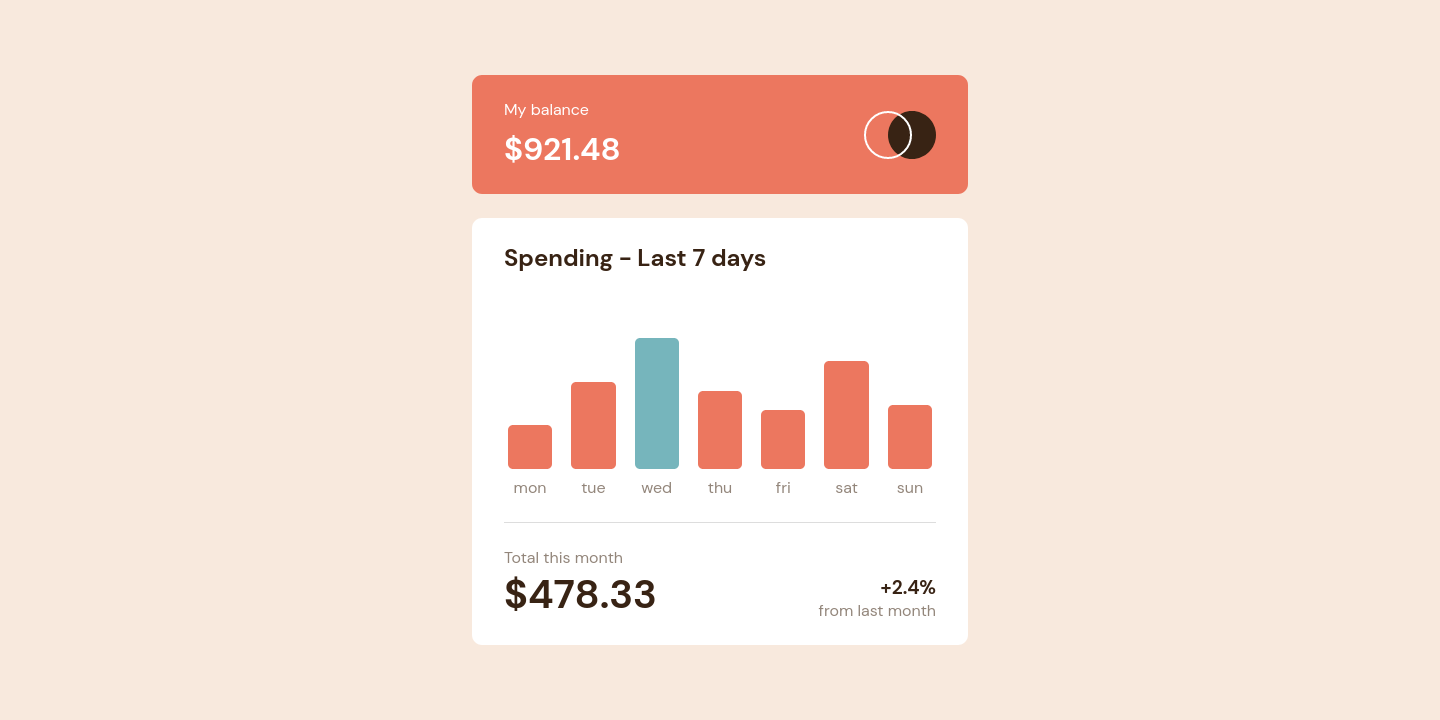
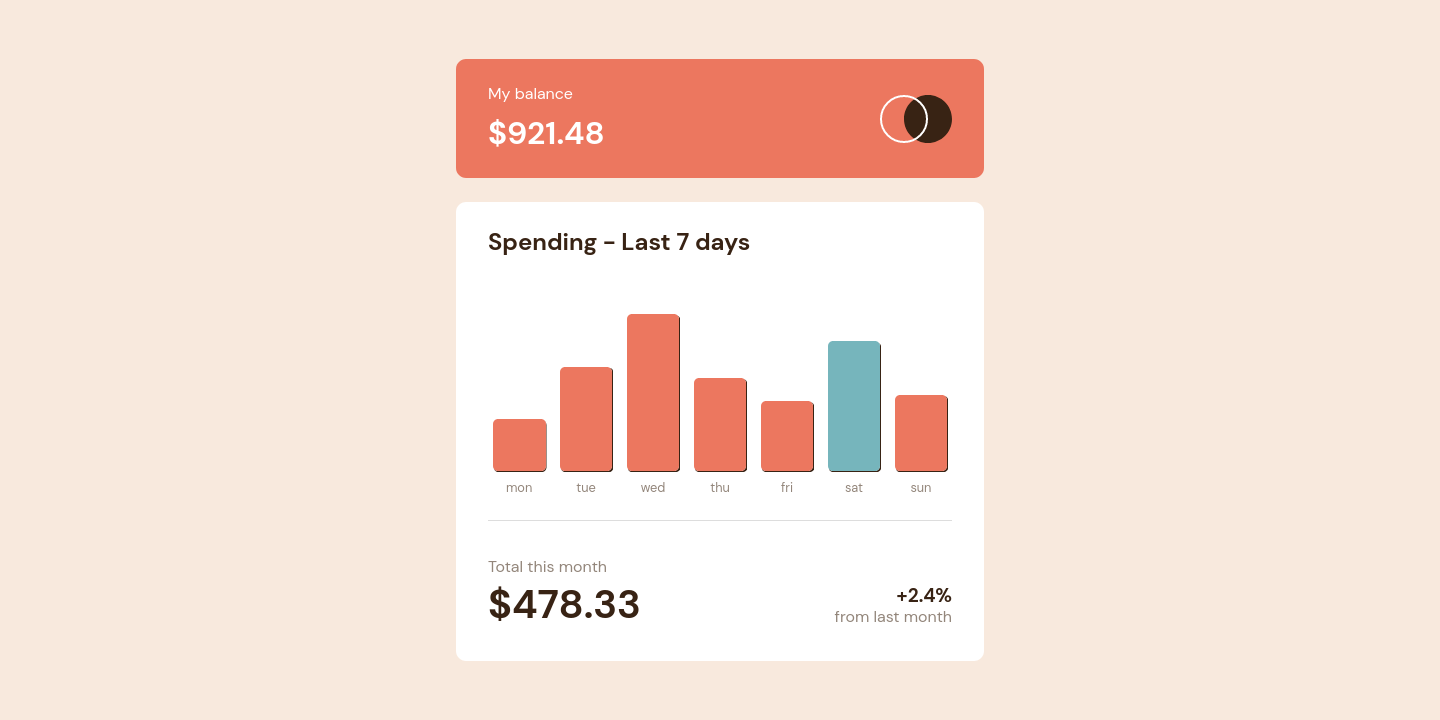
fix responsive view

Changed region(s): [[0.3125, 0.0611, 0.6875, 0.9167]]

diff --git a/public/solutions/expenses-chart-component/static/css/main.4b602d8c.css b/public/solutions/expenses-chart-component/static/css/main.4b602d8c.css
@@ -1,0 +1,2 @@
+.SpendDay_container__cTSNa{align-items:center;align-self:flex-end;cursor:pointer;display:flex;flex-basis:0;flex-direction:column;flex-grow:1;gap:.5rem;justify-content:flex-end;margin-top:2rem}.SpendDay_container__cTSNa:hover>.SpendDay_amount__pr\+6W{opacity:1}.SpendDay_container__cTSNa:hover>.SpendDay_bar__2ALwY{opacity:.8}.SpendDay_container__cTSNa .SpendDay_amount__pr\+6W{display:flex;height:auto;justify-content:center;opacity:0;position:relative;transition:.3s ease;width:100%}.SpendDay_container__cTSNa .SpendDay_amount__pr\+6W .SpendDay_value__k9hMh{background-color:#382314;border-radius:5px;bottom:0;box-sizing:initial;color:#fff;font-size:1rem;font-weight:700;padding:.5rem;position:absolute;text-align:center}.SpendDay_container__cTSNa .SpendDay_bar__2ALwY{background-color:#ec775f;border-radius:5px;box-shadow:1px 1px #382314;transition:.3s ease;width:85%}.SpendDay_container__cTSNa p{box-sizing:initial;color:#93867b;font-size:.8rem}@media screen and (max-width:375px){.SpendDay_container__cTSNa .SpendDay_amount__pr\+6W .SpendDay_value__k9hMh{font-size:.6rem}.SpendDay_container__cTSNa p{font-size:.7rem}}.Spending_container__B78Xt{border-bottom:1px solid #ddd;margin-bottom:1.5rem;padding-bottom:1.5rem}.Spending_container__B78Xt h2{margin-bottom:1rem}.Spending_container__B78Xt .Spending_data__YS8Cd{display:flex;gap:.3rem;height:auto}.App_container__eW9UT{width:33rem}.App_container__eW9UT .App_header__ed3j4{align-items:center;background-color:#ec775f;border-radius:10px;color:#fff;display:flex;justify-content:space-between;margin-bottom:1.5rem;padding:1.5rem 2rem}.App_container__eW9UT .App_header__ed3j4 h1{font-size:1rem;font-weight:400;margin-bottom:.5rem}.App_container__eW9UT .App_header__ed3j4 p{font-size:2rem;font-weight:700}.App_container__eW9UT .App_main__Z6g6t{background-color:#fff;border-radius:10px;color:#382314;padding:1.5rem 2rem}.App_container__eW9UT .App_main__Z6g6t .App_info__YKVfT{display:flex;justify-content:space-between;padding:.8rem 0}.App_container__eW9UT .App_main__Z6g6t .App_info__YKVfT .App_desc__BhD5V{color:#93867b;font-size:1rem;line-height:1}.App_container__eW9UT .App_main__Z6g6t .App_info__YKVfT .App_total__lw7ZD{font-size:2.5rem;font-weight:700;line-height:1;padding-top:10px}.App_container__eW9UT .App_main__Z6g6t .App_info__YKVfT .App_percent__CQpp\+{font-size:1.2rem;font-weight:700;text-align:right}.App_container__eW9UT .App_main__Z6g6t .App_info__YKVfT .App_percent_div__QrYqb{align-self:flex-end}@media screen and (max-width:375px){.App_container__eW9UT{width:90%}.App_container__eW9UT .App_header__ed3j4{padding:1rem}.App_container__eW9UT .App_header__ed3j4 h1{font-size:.95rem}.App_container__eW9UT .App_header__ed3j4 p{font-size:1.5rem}.App_container__eW9UT .App_main__Z6g6t{padding:1rem}.App_container__eW9UT .App_main__Z6g6t .App_info__YKVfT{padding:0}.App_container__eW9UT .App_main__Z6g6t .App_info__YKVfT .App_desc__BhD5V{font-size:.95rem}.App_container__eW9UT .App_main__Z6g6t .App_info__YKVfT .App_total__lw7ZD{font-size:1.8rem}.App_container__eW9UT .App_main__Z6g6t .App_info__YKVfT .App_percent__CQpp\+{font-size:1rem;margin-bottom:4px}}*{box-sizing:border-box;font-family:DM Sans,sans-serif;margin:0;padding:0}#root{align-items:center;background-color:#f8e9dd;display:flex;height:100vh;justify-content:center;width:100vw}
+/*# sourceMappingURL=main.4b602d8c.css.map*/

diff --git a/public/solutions/expenses-chart-component/code/src/styles/App.module.sass b/public/solutions/expenses-chart-component/code/src/styles/App.module.sass
@@ -11,44 +11,74 @@
         color: shared.$dark-brown
 
 .container
-    margin: 1rem
     width: 33rem
 
-.header
-    @include style(true)
-    margin-bottom: 1.5rem
-    align-items: center
-    display: flex
-    justify-content: space-between
-
-    h1
-        font-weight: 400
-        font-size: 1rem
-        margin-bottom: 0.5rem
-
-    p
-        font-weight: 700
-        font-size: 2rem
-
-.main
-    @include style()
-
-    .info
+    .header
+        @include style(true)
+        margin-bottom: 1.5rem
+        align-items: center
         display: flex
         justify-content: space-between
 
-        .desc
+        h1
+            font-weight: 400
             font-size: 1rem
-            color: shared.$medium-brown
+            margin-bottom: 0.5rem
 
-        .total
-            font-size: 2.5rem
+        p
             font-weight: 700
+            font-size: 2rem
 
-        .percent
-            font-size: 1.2rem
-            font-weight: 700
-            text-align: right
+    .main
+        @include style()
 
-        .percent_div
-            align-self: flex-end
+        .info
+            display: flex
+            justify-content: space-between
+            padding: 0.8rem 0
+
+            .desc
+                font-size: 1rem
+                line-height: 1
+                color: shared.$medium-brown
+
+            .total
+                font-size: 2.5rem
+                font-weight: 700
+                line-height: 1
+                padding-top: 10px
+
+            .percent
+                font-size: 1.2rem
+                font-weight: 700
+                text-align: right
+
+            .percent_div
+                align-self: flex-end
+
+@media screen and ( max-width: 375px )
+    .container
+        width: 90%
+
+        .header
+            padding: 1rem
+
+            h1
+                font-size: 0.95rem
+            p
+                font-size: 1.5rem
+        .main
+            padding: 1rem
+
+            .info
+                padding: 0
+
+                .desc
+                    font-size: 0.95rem
+
+                .total
+                    font-size: 1.8rem
+
+                .percent
+                    font-size: 1rem
+                    margin-bottom: 4px

diff --git a/public/solutions/expenses-chart-component/index.html b/public/solutions/expenses-chart-component/index.html
@@ -1,1 +1,1 @@
-<!doctype html><html lang="en"><head><meta charset="utf-8"/><link rel="icon" href="/challenges/solutions/expenses-chart-component/favicon.ico"/><meta name="viewport" content="width=device-width,initial-scale=1"/><link rel="preconnect" href="https://fonts.googleapis.com"><link rel="preconnect" href="https://fonts.gstatic.com" crossorigin><link href="https://fonts.googleapis.com/css2?family=DM+Sans:wght@400;700&display=swap" rel="stylesheet"><title>Expenses chart component</title><script defer="defer" src="/challenges/solutions/expenses-chart-component/static/js/main.ac0a3db4.js"></script><link href="/challenges/solutions/expenses-chart-component/static/css/main.bb08a89b.css" rel="stylesheet"></head><body><noscript>You need to enable JavaScript to run this app.</noscript><div id="root"></div></body></html>
+<!doctype html><html lang="en"><head><meta charset="utf-8"/><link rel="icon" href="/challenges/solutions/expenses-chart-component/favicon.ico"/><meta name="viewport" content="width=device-width,initial-scale=1"/><link rel="preconnect" href="https://fonts.googleapis.com"><link rel="preconnect" href="https://fonts.gstatic.com" crossorigin><link href="https://fonts.googleapis.com/css2?family=DM+Sans:wght@400;700&display=swap" rel="stylesheet"><title>Expenses chart component</title><script defer="defer" src="/challenges/solutions/expenses-chart-component/static/js/main.ac0a3db4.js"></script><link href="/challenges/solutions/expenses-chart-component/static/css/main.4b602d8c.css" rel="stylesheet"></head><body><noscript>You need to enable JavaScript to run this app.</noscript><div id="root"></div></body></html>

diff --git a/public/solutions/expenses-chart-component/code/src/features/components/SpendDay.module.sass b/public/solutions/expenses-chart-component/code/src/features/components/SpendDay.module.sass
@@ -55,4 +55,7 @@
     .container
         .amount
             .value
-                font-size: 0.7rem
+                font-size: 0.6rem
+
+        p
+            font-size: 0.7rem

diff --git a/public/solutions/expenses-chart-component/code/src/features/Spending.module.sass b/public/solutions/expenses-chart-component/code/src/features/Spending.module.sass
@@ -8,5 +8,5 @@
 
     .data
         display: flex
-        gap: 0.7rem
+        gap: 0.3rem
         height: auto
